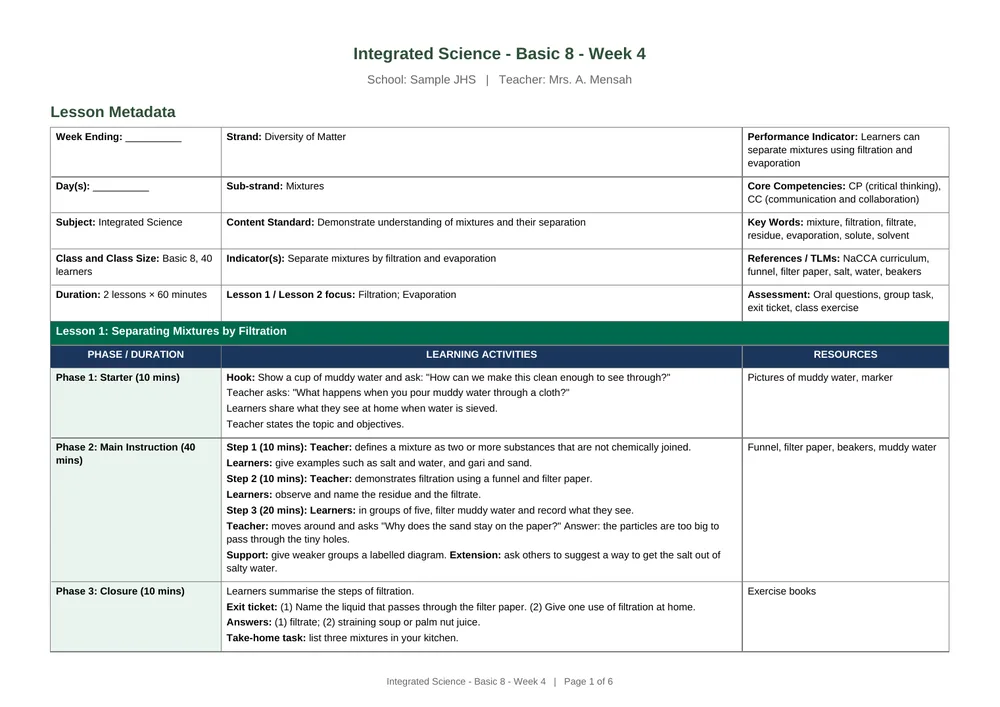
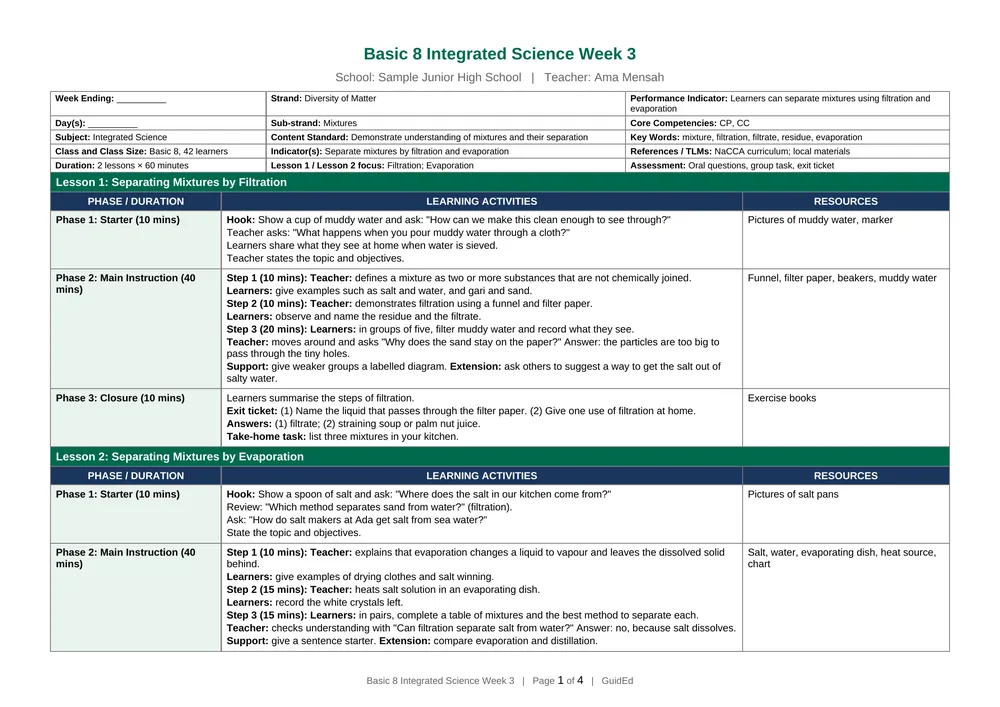
Replace sample plan images with pages from a real exported Word plan
Claude-Session: https://claude.ai/code/session_017PHabBHzXc3FBR8FYmmAQW

diff --git a/hearth-planner/public/lesson-plans.html b/hearth-planner/public/lesson-plans.html
@@ -3,7 +3,7 @@
 <title>Free GES Lesson Plans for Ghana Teachers (Basic 1 to SHS 3) · GuidEd</title>
 <meta name="description" content="Make free weekly lesson plans aligned with the GES and NaCCA curriculum for Basic 1 to SHS 3. Notes, BECE and WASSCE-style questions, marking guide, and Word export.">
 <link rel="canonical" href="https://www.guidedgh.site/lesson-plans">
-<meta property="og:type" content="website"><meta property="og:site_name" content="GuidEd"><meta property="og:title" content="Free GES Lesson Plans for Ghana Teachers"><meta property="og:description" content="Weekly lesson plans aligned with the GES and NaCCA curriculum, Basic 1 to SHS 3, exported to Word."><meta property="og:url" content="https://www.guidedgh.site/lesson-plans"><meta property="og:image" content="https://www.guidedgh.site/img/sample-plan-1.webp">
+<meta property="og:type" content="website"><meta property="og:site_name" content="GuidEd"><meta property="og:title" content="Free GES Lesson Plans for Ghana Teachers"><meta property="og:description" content="Weekly lesson plans aligned with the GES and NaCCA curriculum, Basic 1 to SHS 3, exported to Word."><meta property="og:url" content="https://www.guidedgh.site/lesson-plans"><meta property="og:image" content="https://www.guidedgh.site/img/sample-plan-1.webp?v=2">
 <script type="application/ld+json">{"@context":"https://schema.org","@type":"WebApplication","name":"GuidEd","url":"https://www.guidedgh.site/","applicationCategory":"EducationalApplication","operatingSystem":"Any","description":"Lesson planner for Ghana teachers, aligned with the GES and NaCCA curriculum, Basic 1 to SHS 3.","offers":{"@type":"Offer","price":"0","priceCurrency":"GHS"},"inLanguage":"en-GH"}</script>
 </head>
 <body><main class="lg"><div class="lg-top"><a class="lg-back" href="/">← Open GuidEd</a><span class="lg-brand">Guid<em>Ed</em></span></div>
@@ -15,8 +15,8 @@
 <h2>See an exported plan</h2>
 <p>This is the Word file GuidEd gives you, shown here for a sample Basic 8 Integrated Science week. Tap a page to see it full size.</p>
 <div class="shots">
-<figure><a href="/img/sample-plan-1.webp"><img src="/img/sample-plan-1.webp" width="1000" height="707" alt="Page 1 of an exported GuidEd lesson plan: a lesson metadata table, then Lesson 1 with starter, main instruction and closure phases and resources." fetchpriority="low"></a><figcaption>The lesson plan: metadata, phases, activities and resources</figcaption></figure>
-<figure><a href="/img/sample-plan-2.webp"><img src="/img/sample-plan-2.webp" width="1000" height="707" alt="Study notes page of an exported GuidEd lesson plan with objectives, key points, a comparison table and key terms." loading="lazy"></a><figcaption>Study notes with key points and key terms</figcaption></figure>
+<figure><a href="/img/sample-plan-1.webp?v=2"><img src="/img/sample-plan-1.webp?v=2" width="1000" height="707" alt="Page 1 of an exported GuidEd lesson plan: a lesson metadata table, then Lesson 1 with starter, main instruction and closure phases and resources." fetchpriority="low"></a><figcaption>The lesson plan: metadata, phases, activities and resources</figcaption></figure>
+<figure><a href="/img/sample-plan-2.webp?v=2"><img src="/img/sample-plan-2.webp?v=2" width="1000" height="707" alt="Study notes page of an exported GuidEd lesson plan with objectives, key points, a comparison table and key terms." loading="lazy"></a><figcaption>Study notes with key points and key terms</figcaption></figure>
 </div>
 <p class="upd">Sample only. Your plans follow the class, subject and week you choose. A Word file also carries your name and school.</p>
 
